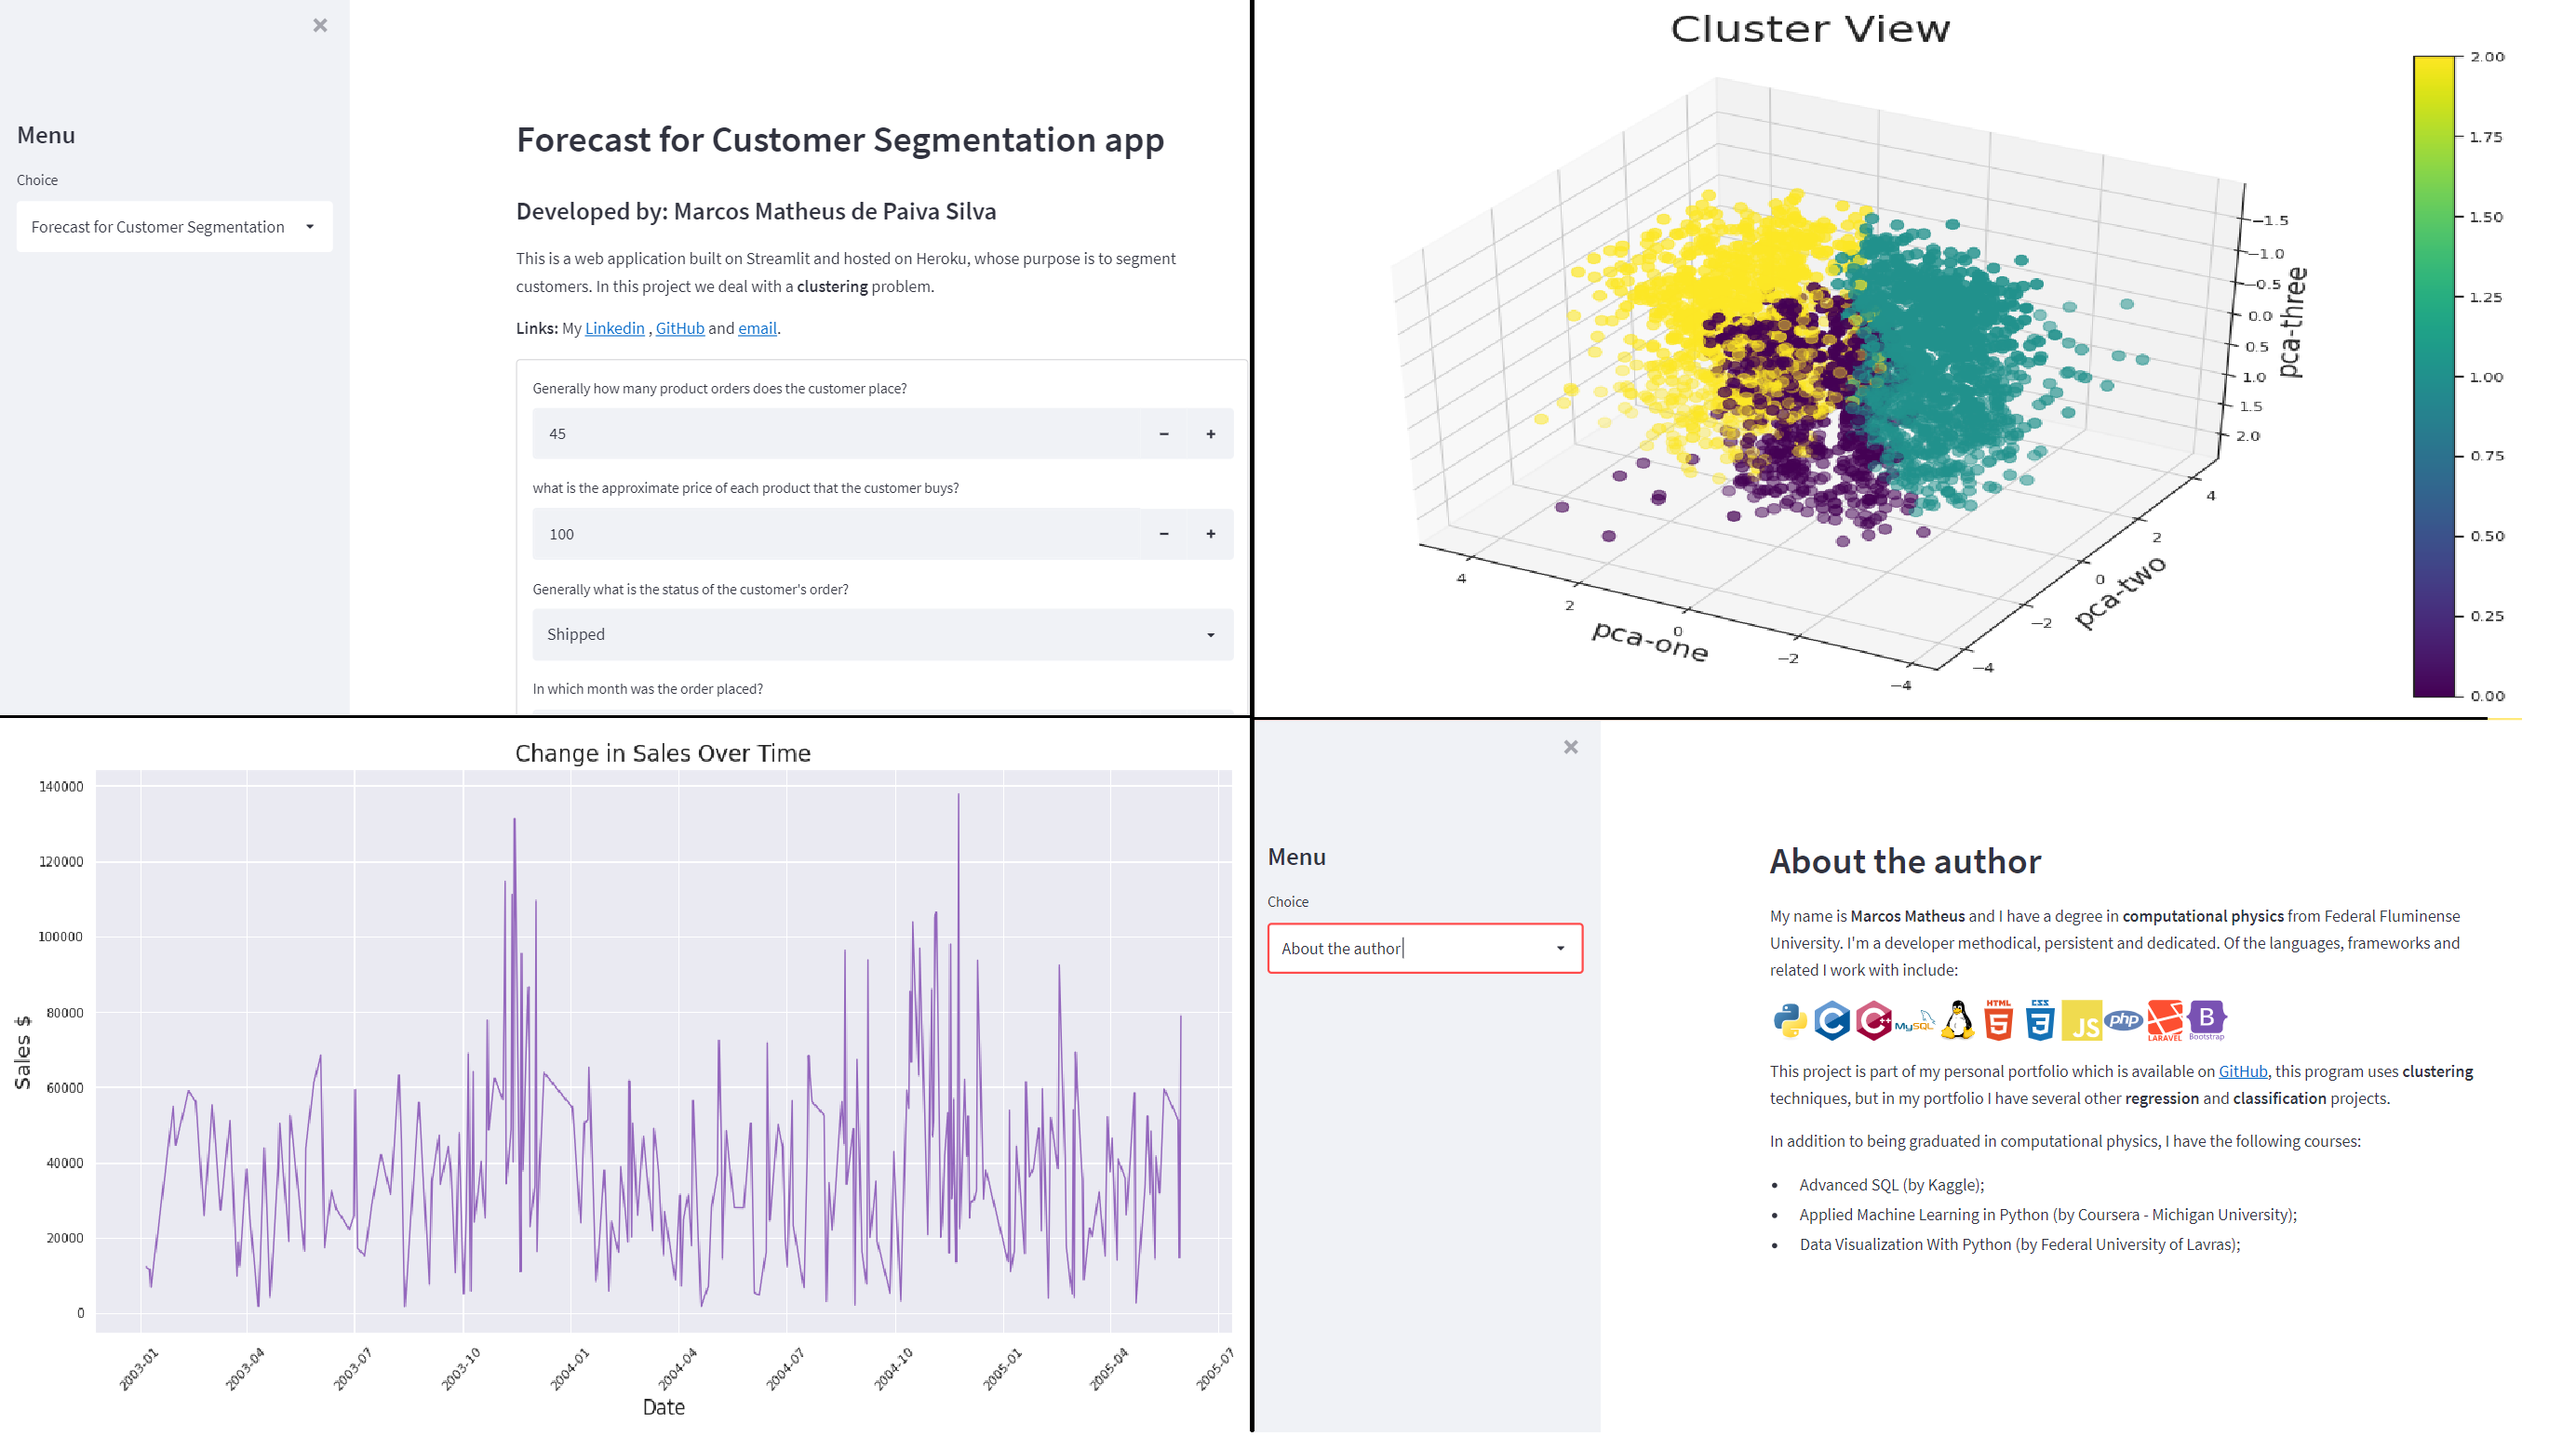
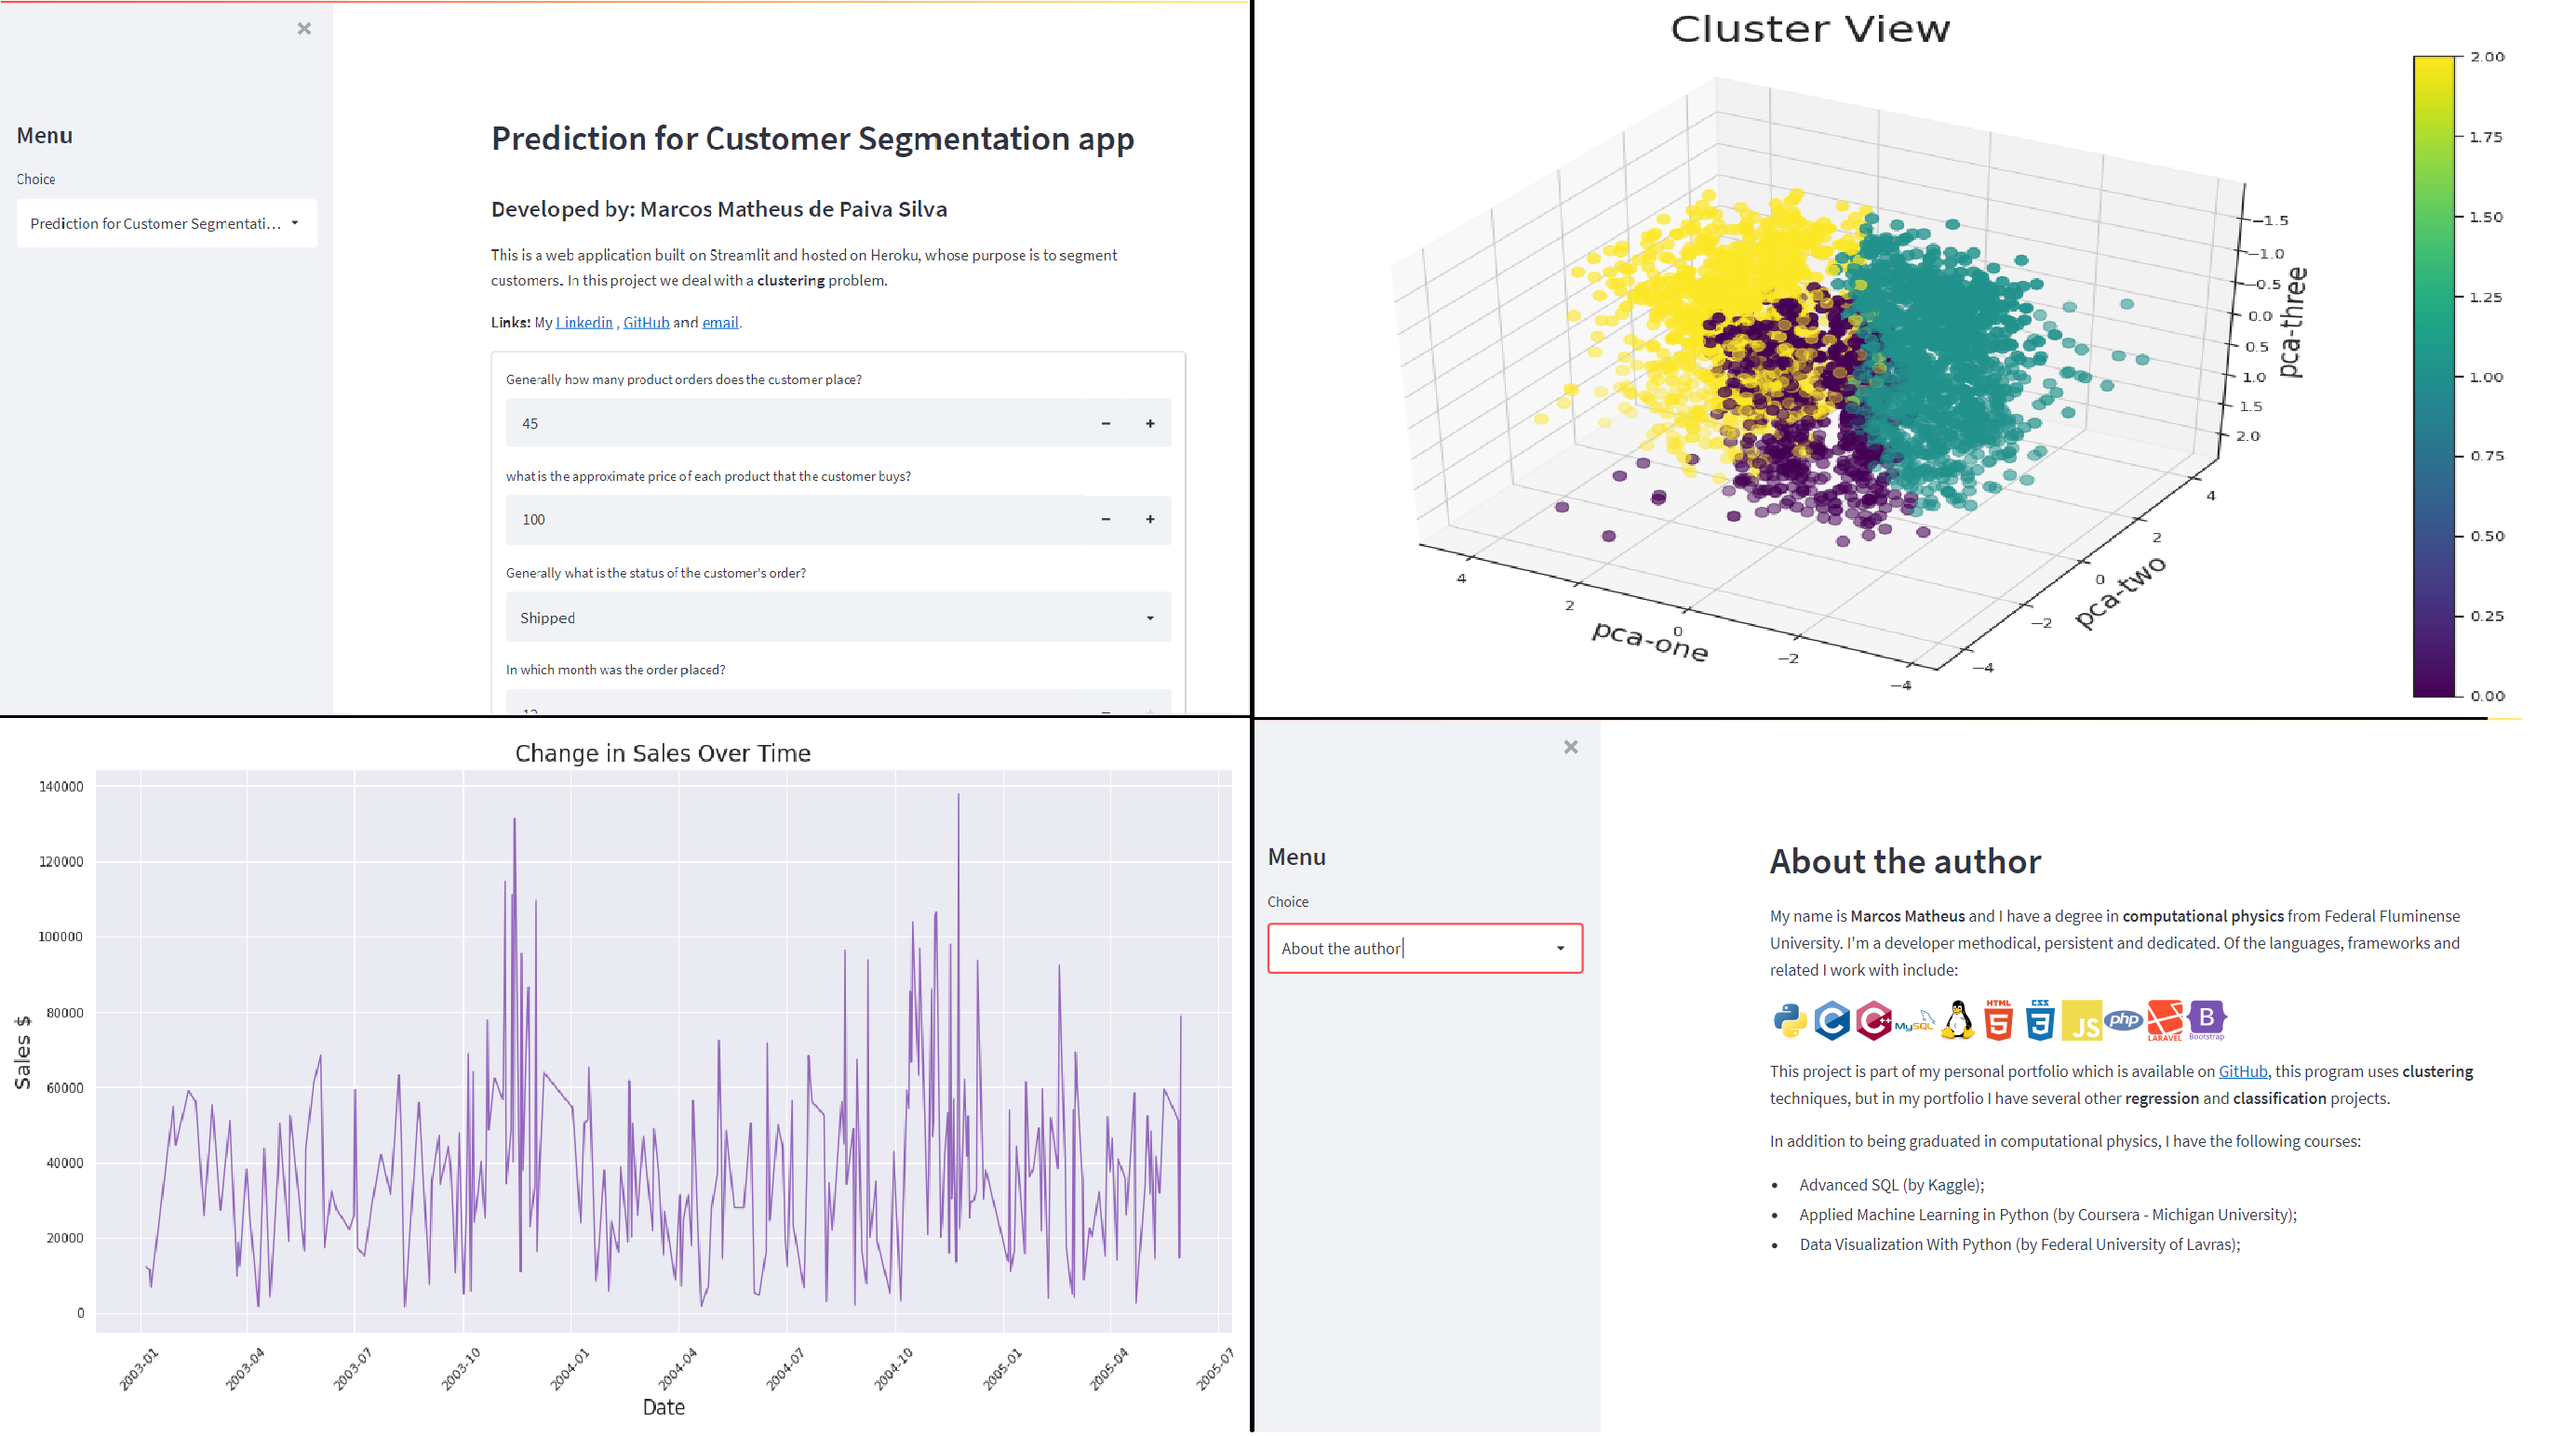
update

diff --git a/Deploy/main.py b/Deploy/main.py
@@ -13,12 +13,12 @@ import About
 st.sidebar.title('Menu')
 Page_user = st.sidebar.selectbox(
 
-'Choice',['Forecast for Customer Segmentation','About the author'] 
+'Choice',['Prediction for Customer Segmentation','About the author'] 
  
 )
 
 #change the pages
-if Page_user == 'Forecast for Customer Segmentation':
+if Page_user == 'Prediction for Customer Segmentation':
     WebApp.code()
     
 if Page_user == 'About the author':

diff --git a/Deploy/WebAppForCustomerSegmentation.py b/Deploy/WebAppForCustomerSegmentation.py
@@ -23,7 +23,7 @@ def header():
     
     # Web App Title
     st.write("""
-    ## Forecast for Customer Segmentation app
+    ## Prediction for Customer Segmentation app
     
     #### Developed by: Marcos Matheus de Paiva Silva
     
